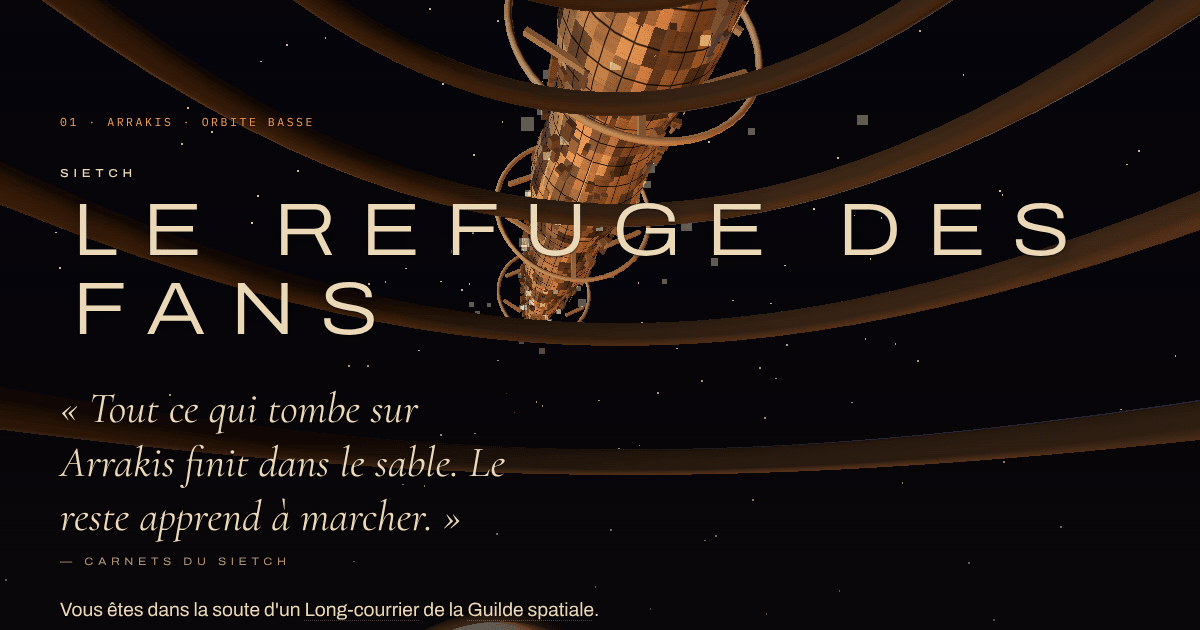
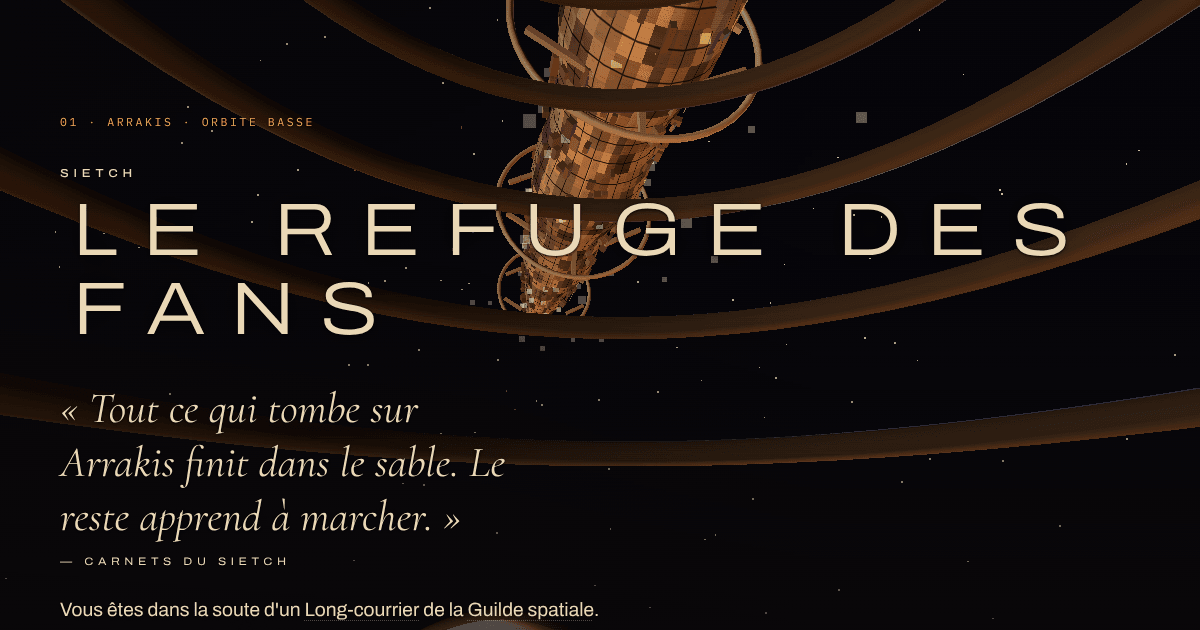
ver : le tremblement porte sur les calques fixes du monde (#world, .still-world), plus jamais sur body (un transform sur body sortait le canvas fixe de l'écran) ; message du ver : place pour le bouton de fermeture ; image de partage régénérée ; scripts/diag-ver-tremble.mjs
Claude-Session: https://claude.ai/code/session_01U1pct5BcuW4HXt57W7n8JT

diff --git a/app/globals.css b/app/globals.css
@@ -323,11 +323,13 @@ html[data-prescience="on"] #world { filter: saturate(0.4) hue-rotate(190deg) bri
 .prescience__toggle { display: inline-flex; gap: 14px; flex-wrap: wrap; margin-top: 1.5rem; }
 
 /* ---- Message du ver ------------------------------------------------------------- */
-.toast { position: fixed; left: 50%; bottom: max(24px, env(safe-area-inset-bottom)); transform: translate(-50%, 20px); z-index: 40; max-width: min(38rem, 90vw); padding: 16px 20px; background: rgba(11, 9, 8, 0.92); border: 1px solid var(--line-strong); font-family: var(--font-serif); font-style: italic; font-size: 1.2rem; line-height: 1.35; opacity: 0; visibility: hidden; transition: opacity 500ms var(--ease-out), transform 500ms var(--ease-out), visibility 0s linear 500ms; }
+.toast { position: fixed; left: 50%; bottom: max(24px, env(safe-area-inset-bottom)); transform: translate(-50%, 20px); z-index: 40; max-width: min(38rem, 90vw); padding: 16px 48px 16px 20px; background: rgba(11, 9, 8, 0.92); border: 1px solid var(--line-strong); font-family: var(--font-serif); font-style: italic; font-size: 1.2rem; line-height: 1.35; opacity: 0; visibility: hidden; transition: opacity 500ms var(--ease-out), transform 500ms var(--ease-out), visibility 0s linear 500ms; }
 .toast[data-open="true"] { opacity: 1; transform: translate(-50%, 0); visibility: visible; transition-delay: 0s; }
 .toast small { display: block; margin-top: 8px; font-family: var(--font-mono); font-style: normal; font-size: 0.64rem; letter-spacing: 0.2em; text-transform: uppercase; color: var(--amber); }
 .toast button { position: absolute; top: 6px; right: 8px; width: 36px; height: 36px; font-family: var(--font-mono); color: var(--muted); }
-html[data-worm="near"] body { animation: tremble 160ms linear infinite; }
+/* Le tremblement porte sur le monde (calques fixes), jamais sur body : un transform sur body ferait de lui le bloc
+   conteneur de tout élément fixe (canvas, voile, console), qui sauterait hors de l'écran. */
+html[data-worm="near"] #world, html[data-worm="near"] .still-world { animation: tremble 160ms linear infinite; }
 @keyframes tremble { 0% { transform: translate(0, 0); } 25% { transform: translate(0.6px, -0.4px); } 50% { transform: translate(-0.5px, 0.5px); } 75% { transform: translate(0.4px, 0.6px); } 100% { transform: translate(0, 0); } }
 
 /* ---- Pied de page : nuit aux deux lunes ------------------------------------------- */
@@ -368,7 +370,7 @@ html[data-worm="near"] body { animation: tremble 160ms linear infinite; }
 /* ---- Mouvement réduit : version calme, statique, complète --------------------- */
 @media (prefers-reduced-motion: reduce) {
   *, *::before, *::after { animation: none !important; transition: none !important; scroll-behavior: auto !important; }
-  html[data-worm="near"] body { animation: none !important; }
+  html[data-worm="near"] #world, html[data-worm="near"] .still-world { animation: none !important; }
   .scene--tall, .scene--mid { min-height: 100svh; }
   .scene__sticky { position: relative; }
   .hud--alt { opacity: 1; transform: none; }
